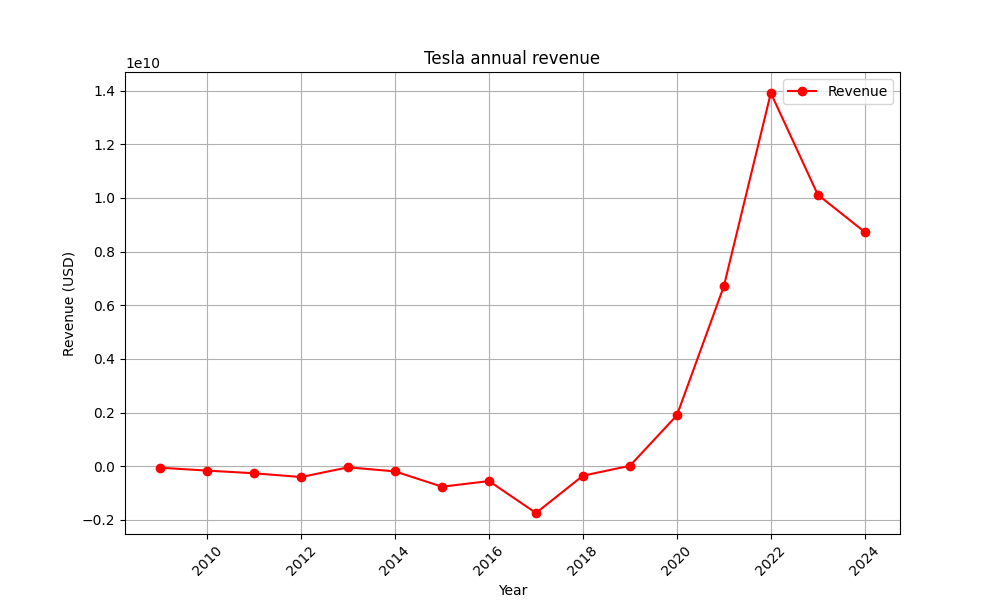
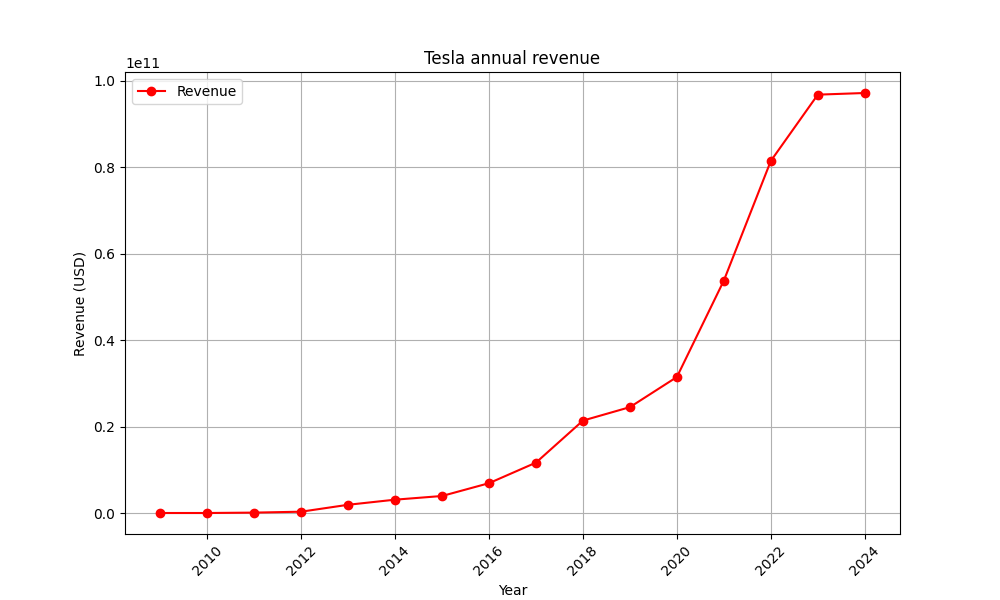
Switched to index page rather than earnings page.

diff --git a/data/earnings.html b/data/earnings.html
@@ -2,7 +2,7 @@
 <!DOCTYPE html>
 <html lang="en-US">
 <head>
-<title>Tesla (TSLA) - Earnings</title>
+<title>Tesla (TSLA) - Revenue</title>
 <meta charset="utf-8"/>
 <link rel="shortcut icon" href="https://companiesmarketcap.com/favicon.ico" type="image/x-icon">
 <link rel="apple-touch-icon" sizes="57x57" href="/img/icons/apple-icon-57x57.png">
@@ -19,33 +19,33 @@
 <link rel="icon" type="image/png" sizes="96x96" href="/img/icons/favicon-96x96.png">
 <link rel="icon" type="image/png" sizes="16x16" href="/img/icons/favicon-16x16.png">
 <link rel="manifest" href="/img/icons/manifest.json">
-<link rel="alternate" hreflang="de" href="https://companiesmarketcap.com/de/tesla/gewinn/" />
-<link rel="alternate" hreflang="fr" href="https://companiesmarketcap.com/fr/tesla/benefices/" />
-<link rel="alternate" hreflang="en-US" href="https://companiesmarketcap.com/tesla/earnings/" />
-<link rel="alternate" hreflang="en-IE" href="https://companiesmarketcap.com/eur/tesla/earnings/" />
-<link rel="alternate" hreflang="en-IN" href="https://companiesmarketcap.com/inr/tesla/earnings/" />
-<link rel="alternate" hreflang="en-GB" href="https://companiesmarketcap.com/gbp/tesla/earnings/" />
-<link rel="alternate" hreflang="en-CA" href="https://companiesmarketcap.com/cad/tesla/earnings/" />
-<link rel="alternate" hreflang="en-AU" href="https://companiesmarketcap.com/aud/tesla/earnings/" />
-<link rel="alternate" hreflang="en-NZ" href="https://companiesmarketcap.com/nzd/tesla/earnings/" />
-<link rel="alternate" hreflang="en-HK" href="https://companiesmarketcap.com/hkd/tesla/earnings/" />
-<link rel="alternate" hreflang="en-SG" href="https://companiesmarketcap.com/sgd/tesla/earnings/" />
+<link rel="alternate" hreflang="de" href="https://companiesmarketcap.com/de/tesla/umsatz/" />
+<link rel="alternate" hreflang="fr" href="https://companiesmarketcap.com/fr/tesla/revenu/" />
+<link rel="alternate" hreflang="en-US" href="https://companiesmarketcap.com/tesla/revenue/" />
+<link rel="alternate" hreflang="en-IE" href="https://companiesmarketcap.com/eur/tesla/revenue/" />
+<link rel="alternate" hreflang="en-IN" href="https://companiesmarketcap.com/inr/tesla/revenue/" />
+<link rel="alternate" hreflang="en-GB" href="https://companiesmarketcap.com/gbp/tesla/revenue/" />
+<link rel="alternate" hreflang="en-CA" href="https://companiesmarketcap.com/cad/tesla/revenue/" />
+<link rel="alternate" hreflang="en-AU" href="https://companiesmarketcap.com/aud/tesla/revenue/" />
+<link rel="alternate" hreflang="en-NZ" href="https://companiesmarketcap.com/nzd/tesla/revenue/" />
+<link rel="alternate" hreflang="en-HK" href="https://companiesmarketcap.com/hkd/tesla/revenue/" />
+<link rel="alternate" hreflang="en-SG" href="https://companiesmarketcap.com/sgd/tesla/revenue/" />
+<link rel="canonical" href="https://companiesmarketcap.com/tesla/revenue/" />
 <link rel="stylesheet" href="https://cdnjs.cloudflare.com/ajax/libs/font-awesome/6.7.2/css/all.min.css" integrity="sha512-Evv84Mr4kqVGRNSgIGL/F/aIDqQb7xQ2vcrdIwxfjThSH8CSR7PBEakCr51Ck+w+/U6swU2Im1vVX0SVk9ABhg==" crossorigin="anonymous" referrerpolicy="no-referrer" />
-<link rel="canonical" href="https://companiesmarketcap.com/tesla/earnings/" />
-<meta property="og:url" content="https://companiesmarketcap.com/tesla/earnings/" />
+<meta property="og:url" content="https://companiesmarketcap.com/tesla/revenue/" />
 <meta name="robots" content="INDEX,FOLLOW" />
 <meta name="msapplication-TileColor" content="#ffffff">
 <meta name="msapplication-TileImage" content="/img/icons/ms-icon-144x144.png">
 <meta name="theme-color" content="#ffffff">
 <meta name="viewport" content="width=device-width, initial-scale=1.0">
 <meta http-equiv="content-language" content="en-US">
-<meta property="og:title" content="Tesla (TSLA) - Earnings">
+<meta property="og:title" content="Tesla (TSLA) - Revenue">
 <meta property="og:type" content="website" />
-<meta property="og:description" content="Current and historical earnings charts for Tesla. As of January 2025 Tesla's TTM earnings are $97.15 Billion USD">
+<meta property="og:description" content="Current and historical revenue charts for Tesla. As of January 2025 Tesla's TTM revenue is of $97.15 Billion USD">
 <meta property="og:image" content="https://companiesmarketcap.com/logo.png">
-<meta name="description" content="Current and historical earnings charts for Tesla. As of January 2025 Tesla's TTM earnings are $97.15 Billion USD">
-<link rel="stylesheet" type="text/css" href="./e-bt-replacement.css">
-<link rel="stylesheet" type="text/css" href="./e-style.css">
+<meta name="description" content="Current and historical revenue charts for Tesla. As of January 2025 Tesla's TTM revenue is of $97.15 Billion USD">
+<link rel="stylesheet" type="text/css" href="./r-bt-replacement.css">
+<link rel="stylesheet" type="text/css" href="./r-style.css">
 <script>
 current_locale = "usd";
 current_locale_path = "";
@@ -60,11 +60,10 @@ current_marketcap_path = "marketcap";
     <div class="site-header">
         <span style="display: inline-flex; margin-top: 2px;">
                 <span class="max-width-720px-hidden">
-                        Companies: <span class="font-weight-bold">10,442</span> &nbsp;&nbsp;&nbsp;
-                        total market cap: <span class="font-weight-bold">$110.780 T</span>
+                        Companies: <span class="font-weight-bold">10,443</span> &nbsp;&nbsp;&nbsp;
+                        total market cap: <span class="font-weight-bold">$110.913 T</span>
                 </span>
         </span>
-      
     </div>
 </div>
 <nav class="navbar nav-bar-companiesmarketcap navbar-expand-lg navbar-light">
@@ -81,22 +80,21 @@ current_marketcap_path = "marketcap";
 
   <div class="collapse navbar-collapse" id="navbarSupportedContent">
 
-    <a href="/" title="CompaniesMarketCap.com - companies ranked by market capitalization" class="responsive-hidden">
+    <a style="pointer-events: none" href="/" title="CompaniesMarketCap.com - companies ranked by market capitalization" class="responsive-hidden">
 	<div class="companiesmarketcap-logo"></div>
     </a>
     <ul class="navbar-nav">
       <li class="nav-item">
-        <a class="nav-link nav-link-companiesmarketcap" style="pointer-events: none;" href="/">Global ranking</a>
+        <a style="pointer-events: none" class="nav-link nav-link-companiesmarketcap" href="/">Global ranking</a>
       </li>
       <li class="nav-item dropdown megamenu-li">
-       <a class="nav-link nav-link-companiesmarketcap dropdown-toggle" style="pointer-events: none;" href="#" id="dropdown-countries" data-toggle="dropdown" aria-haspopup="true" aria-expanded="false">Ranking by countries</a>
-      
+       <a style="pointer-events: none" style="pointer-events: none" class="nav-link nav-link-companiesmarketcap dropdown-toggle" href="#" id="dropdown-countries" style="pointer-events: none" data-toggle="dropdown" aria-haspopup="true" aria-expanded="false">Ranking by countries</a>
+       </div>
       </li>
-      
 
       <li class="nav-item dropdown megamenu-li max-width-650px-shown">
-        <a class="nav-link nav-link-companiesmarketcap" href="/watchlist/"><img class="fav-icon dark-shown" alt="favorite icon" src="/img/fav.svg?v=3"><img class="fav-icon dark-hidden" alt="favorite icon" src="/img/fav4.svg?v=3"> Watchlist</a>
-        <a class="nav-link nav-link-companiesmarketcap" href="/account/"><img class="account-icon dark-shown" alt="favorite icon" src="/img/account.svg?v=3"><img class="account-icon dark-hidden" alt="favorite icon" src="/img/account4.svg?v=3"> Account</a>
+        <a class="nav-link nav-link-companiesmarketcap"  style="pointer-events: none;" href="/watchlist/"><img class="fav-icon dark-shown" alt="favorite icon" src="/img/fav.svg?v=3"><img class="fav-icon dark-hidden" alt="favorite icon" src="/img/fav4.svg?v=3"> Watchlist</a>
+        <a class="nav-link nav-link-companiesmarketcap" style="pointer-events: none;" href="/account/"><img class="account-icon dark-shown" alt="favorite icon" src="/img/account.svg?v=3"><img class="account-icon dark-hidden" alt="favorite icon" src="/img/account4.svg?v=3"> Account</a>
       </span>
 
     </ul>    </div>
@@ -106,8 +104,7 @@ current_marketcap_path = "marketcap";
 <div style="background-color: #e98383; padding: 20px; border: 1px solid #ccc; font-family: Arial, sans-serif; font-size: 14px; color: #333;">
   <strong>Descargo de Responsabilidad</strong><br>
   Esta página ha sido copiada de <a href="https://companiesmarketcap.com/tesla/revenue" target="_blank" style="color: #0066cc; text-decoration: none;">"Companies Market Cap"</a> con fines educativos. Todos los derechos de autor y otros derechos relacionados con el contenido original pertenecen a sus respectivos autores. Esta copia se ha realizado únicamente para fines de aprendizaje. Si eres el propietario del contenido y deseas que se retire, por favor contáctanos.
-</div>
-
+</div> 
 
 <div align="center">
 <div style="min-height:90px;"><div data-fuse="23022329499"></div> <div class="recoverub-container hidden"></div> </div></div>
@@ -116,7 +113,7 @@ current_marketcap_path = "marketcap";
     <div class="row">
         <div class="col-lg-2">
 	    <div class="company-logo-container">
-		<img loading="lazy" class="company-profile-logo" title="Tesla Logo" alt="Tesla Logo" src="https://pngimg.com/uploads/tesla_logo/tesla_logo_PNG14.png" data-img-dark-path="/img/company-logos/256/TSLA_BIG.D.webp">            </div>
+		<img loading="lazy" class="company-profile-logo" title="Tesla Logo" alt="Tesla Logo" src="https://pngimg.com/uploads/tesla_logo/tesla_logo_PNG14.png" data-img-path="./assets/img/pngegg.png" data-img-dark-path="./assets/img/teslalogo.png">            </div>
             <div class="company-title-container">
             	<div class="company-code">TSLA</div>
 	    </div>
@@ -124,17 +121,17 @@ current_marketcap_path = "marketcap";
         <div class="col-lg-6">
 	    <div class="row">
 		    <div class="info-box"><div class="line1">#8</div><div class="line2">Rank</div></div>
-		    <div class="info-box"><div class="line1">$1.255 T</div><div class="line2">Marketcap</div></div>
+		    <div class="info-box"><div class="line1">$1.294 T</div><div class="line2">Marketcap</div></div>
 		    <div class="info-box"><div class="line1"><a href="/usa/largest-companies-in-the-usa-by-market-cap/"><span class="responsive-hidden"> United States</a></span></div><div class="line2">Country</div></div>
 	    </div>
 	    <div class="row">
-		    <div class="info-box"><div class="line1">$391.20</div><div class="line2">Share price</div></div>
-		    <div class="info-box"><div class="line1"><span class="percentage-red">-0.95%</span></div><div class="line2">Change (1 day)</div></div>
-		    <div class="info-box"><div class="line1"><span class="percentage-green">66.49%</span></div><div class="line2">Change (1 year)</div></div>
+		    <div class="info-box"><div class="line1">$403.31</div><div class="line2">Share price</div></div>
+		    <div class="info-box"><div class="line1"><span class="percentage-green">2.17%</span></div><div class="line2">Change (1 day)</div></div>
+		    <div class="info-box"><div class="line1"><span class="percentage-green">83.40%</span></div><div class="line2">Change (1 year)</div></div>
 	    </div>
 <div class="info-box categories-box">
 <div class="line1">
-<a style="pointer-events: none;" href="/automakers/largest-automakers-by-market-cap/" class="badge badge-light category-badge">🚗 Automakers</a><a style="pointer-events: none;"  href="/tech/largest-tech-companies-by-market-cap/" class="badge badge-light category-badge">👩💻 Tech</a><a style="pointer-events: none;"  href="/electric-vehicles/largest-ev-companies-by-market-cap/" class="badge badge-light category-badge">🔋 Electric Vehicles</a><a style="pointer-events: none;"  href="/bitcoin/largest-companies-by-market-cap/" class="badge badge-light category-badge"> ₿ Bitcoin</a><a style="pointer-events: none;"  href="/manufacturing/largest-manufacturing-companies-by-market-cap/" class="badge badge-light category-badge"> 🏭 Manufacturing</a><a style="pointer-events: none;"  href="/ev-charging/largest-ev-charging-companies-by-market-cap/" class="badge badge-light category-badge">🔌 EV charging</a><a style="pointer-events: none;"  href="/autonomous-driving/largest-autonomous-driving-companies-by-market-cap/" class="badge badge-light category-badge">🤖 Autonomous driving</a><a style="pointer-events: none;"  href="/artificial-intelligence/largest-ai-companies-by-marketcap/" class="badge badge-light category-badge">🦾 AI</a></div>
+<a style="pointer-events: none" href="/automakers/largest-automakers-by-market-cap/" class="badge badge-light category-badge">🚗 Automakers</a><a style="pointer-events: none" href="/tech/largest-tech-companies-by-market-cap/" class="badge badge-light category-badge">👩💻 Tech</a><a style="pointer-events: none" href="/electric-vehicles/largest-ev-companies-by-market-cap/" class="badge badge-light category-badge">🔋 Electric Vehicles</a><a style="pointer-events: none" href="/bitcoin/largest-companies-by-market-cap/" class="badge badge-light category-badge"> ₿ Bitcoin</a><a style="pointer-events: none" href="/manufacturing/largest-manufacturing-companies-by-market-cap/" class="badge badge-light category-badge"> 🏭 Manufacturing</a><a style="pointer-events: none" href="/ev-charging/largest-ev-charging-companies-by-market-cap/" class="badge badge-light category-badge">🔌 EV charging</a><a style="pointer-events: none" href="/autonomous-driving/largest-autonomous-driving-companies-by-market-cap/" class="badge badge-light category-badge">🤖 Autonomous driving</a><a style="pointer-events: none" href="/artificial-intelligence/largest-ai-companies-by-marketcap/" class="badge badge-light category-badge">🦾 AI</a></div>
 <div class="line2">Categories</div>
 </div>
 
@@ -144,60 +141,61 @@ current_marketcap_path = "marketcap";
 		<p>Tesla, Inc. is an American company that manufactures and sells electric cars, as well as power storage and photovoltaic systems. The company's goal is to “accelerate the transition to sustainable energy”. The company name is based on the physicist and inventor Nikola Tesla.</p>	</div>
 	    </div>
 
+
+
+
     <ul class="profile-nav nav nav-tabs mt-4">
-  <li class="nav-item"  style="pointer-events: none">          <a class="nav-link" style="pointer-events: none" href="/tesla/marketcap/">Market cap</a>  </li>  <li class="nav-item" >          <a class="nav-link" href="./index.html">Revenue</a>  </li>  <li class="nav-item">          <a class="nav-link active" href="./earnings.html">Earnings</a>  </li>  <li class="nav-item">          <a class="nav-link tab-medium-hide" style="pointer-events: none" href="/tesla/stock-price-history/">Price history</a>  </li>  <li class="nav-item">          <a class="nav-link tab-medium-hide" style="pointer-events: none" href="/tesla/pe-ratio/">P/E ratio</a>  </li>  <li class="nav-item">          <a class="nav-link tab-medium-hide" style="pointer-events: none" href="/tesla/ps-ratio/">P/S ratio</a>  </li>  <li class="nav-item dropdown position-relative">
-    <a class="nav-link dropdown-toggle" data-toggle="dropdown" style="pointer-events: none" href="#" role="button" aria-haspopup="true" aria-expanded="false">More</a>
+  <li class="nav-item">          <a class="nav-link" style="pointer-events: none" href="/tesla/marketcap/">Market cap</a>  </li>  <li class="nav-item">          <a class="nav-link active"  href="/tesla/revenue/">Revenue</a>  </li>  <li class="nav-item">          <a class="nav-link" href="earnings.html">Earnings</a>  </li>  <li class="nav-item">          <a class="nav-link tab-medium-hide" style="pointer-events: none" href="/tesla/stock-price-history/">Price history</a>  </li>  <li class="nav-item">          <a class="nav-link tab-medium-hide" style="pointer-events: none" href="/tesla/pe-ratio/">P/E ratio</a>  </li>  <li class="nav-item">          <a class="nav-link tab-medium-hide" style="pointer-events: none" href="/tesla/ps-ratio/">P/S ratio</a>  </li>  <li class="nav-item dropdown position-relative">
+    <a class="nav-link dropdown-toggle"  style="pointer-events: none" data-toggle="dropdown" href="#" role="button" aria-haspopup="true" aria-expanded="false">More</a>
     <div class="dropdown-menu profile-dropdown">
         <a class="dropdown-item tab-medium-show" href="/tesla/stock-price-history/">Price history</a>
-<a class="dropdown-item" href="/tesla/operating-margin/">Operating margin</a>
-<a class="dropdown-item" href="/tesla/eps/">EPS</a>
-<a class="dropdown-item" href="/tesla/stock-splits/">Stock Splits</a>
-<a class="dropdown-item" href="/tesla/shares-outstanding/">Shares outstanding</a>
-<a class="dropdown-item" href="/tesla/failure-to-deliver/">Fails to deliver</a>
-<a class="dropdown-item" href="/tesla/cost-to-borrow/">Cost to borrow</a>
-<a class="dropdown-item" href="/tesla/total-assets/">Total assets</a>
-<a class="dropdown-item" href="/tesla/total-liabilities/">Total liabilities</a>
-<a class="dropdown-item" href="/tesla/total-debt/">Total debt</a>
-<a class="dropdown-item" href="/tesla/cash-on-hand/">Cash on Hand</a>
-<a class="dropdown-item" href="/tesla/net-assets/">Net Assets</a>    </div>
+<a class="dropdown-item tab-medium-show" style="pointer-events: none" href="/tesla/pe-ratio/">P/E ratio</a>
+<a class="dropdown-item tab-medium-show" style="pointer-events: none" href="/tesla/ps-ratio/">P/S ratio</a>
+<a class="dropdown-item" style="pointer-events: none" href="/tesla/pb-ratio/">P/B ratio</a>
+<a class="dropdown-item" style="pointer-events: none" href="/tesla/operating-margin/">Operating margin</a>
+<a class="dropdown-item" style="pointer-events: none" href="/tesla/eps/">EPS</a>
+<a class="dropdown-item" style="pointer-events: none" href="/tesla/stock-splits/">Stock Splits</a>
+<a class="dropdown-item" style="pointer-events: none" href="/tesla/shares-outstanding/">Shares outstanding</a>
+<a class="dropdown-item" style="pointer-events: none" href="/tesla/failure-to-deliver/">Fails to deliver</a>
+<a class="dropdown-item" style="pointer-events: none" href="/tesla/cost-to-borrow/">Cost to borrow</a>
+<a class="dropdown-item" style="pointer-events: none" href="/tesla/total-assets/">Total assets</a>
+<a class="dropdown-item" style="pointer-events: none" href="/tesla/total-liabilities/">Total liabilities</a>
+<a class="dropdown-item" style="pointer-events: none" href="/tesla/total-debt/">Total debt</a>
+<a class="dropdown-item" style="pointer-events: none" href="/tesla/cash-on-hand/">Cash on Hand</a>
+<a class="dropdown-item" style="pointer-events: none" href="/tesla/net-assets/">Net Assets</a>    </div>
   </li>
 </ul>
 
     <div class="profile-container pt-3">
-	<h1>Earnings for Tesla (TSLA)</h1>
-			<h2><strong>Earnings in 2024 (TTM):  <span class="background-ya">$8.73 Billion USD</span></strong></h2>
-		<p class="mt-2">
-According to <strong>Tesla</strong>'s latest financial reports the company's current earnings  are <strong>$97.15 Billion USD</strong>. In 2023 the company made an earning of <strong>$10.12 Billion USD</strong> a decrease over its 2022 earnings that were of <strong>$13.91 Billion USD</strong>.  The earnings displayed on this page are the earnings before interest and taxes or simply <strong>EBIT</strong>. 	</p>
+	<h1>Revenue for Tesla (TSLA)</h1>
+                <h2><strong>Revenue in 2024 (TTM): <span class="background-ya">$97.15 Billion USD</span></strong></h2>
+        	<p class="mt-2">
+According to <strong>Tesla</strong>'s latest financial reports the company's current revenue (TTM <img class="in-text-tooltip ttm-dates-info-icon info-icon tooltip-title responsive-hidden" tooltip-title="2 Oct 2023 - 30 Sep 2024" src="/img/info-icon-grey.svg">) is <strong>$97.15 Billion USD</strong>. In 2023 the company made a revenue of <strong>$96.77 Billion USD</strong> an increase over the revenue in the year 2022 that were of <strong>$81.46 Billion USD</strong>. The revenue is the total amount of income that a company generates by the sale of goods or services. Unlike with the <a href="earnings.html">earnings</a> no expenses are subtracted. 	</p>
 
-    <div>
-        <h2 class="big">Earnings history for Tesla from 2009 to 2024</h2>
-        <!-- <svg id="marketcapchart" class="companiesmarketcap-chart" height="550" width="100%" xmlns:svg="http://www.w3.org/2000/svg" xmlns="http://www.w3.org/2000/svg"></svg> -->
-    </div>
-<div style="margin-bottom: 10px;margin-top: 10px;"><!-- GAM 71161633/JWSRV_companiesmarketcap/comp_incontent_1 -->
-</div>
-    <h3>Annual earnings</h3>
+	<div align="center" style="margin-bottom: 10px;margin-top: 10px;"><!-- GAM 71161633/JWSRV_companiesmarketcap/comp_incontent_1 -->
+</div>	
+    <h3>Annual revenue</h3>
     <div style="overflow-y: scroll;">
 	    <table class="table" style="width:100%">
 	        <thead>
 	            <tr>
 	                <th>Year</th>
-					<th>Earnings</th>
+					<th>Revenue</th>
 					<th>Change</th>
 				</tr>
 			</thead>
-			<tbody>
-<tr><td><span class="year">2024</span></td><td>$8.73 B</td><td class="percentage-red">-13.81%</td></tr><tr><td><span class="year">2023</span></td><td>$10.12 B</td><td class="percentage-red">-27.18%</td></tr><tr><td><span class="year">2022</span> </td><td>$13.91 B</td><td class="percentage-green">107.18%</td></tr><tr><td><span class="year">2021</span> </td><td>$6.71 B</td><td class="percentage-green">253%</td></tr><tr><td><span class="year">2020</span></td><td>$1.90 B</td><td class="percentage-green">9410%</td></tr><tr><td><span class="year">2019</span> </td><td>$20 M</td><td class="percentage-red">-105.84%</td></tr><tr><td><span class="year">2018</span></td><td>-$0.35 Billion</td><td class="percentage-red">-80.31%</td></tr><tr><td><span class="year">2017</span> </td><td>-$1.74 Billion</td><td class="percentage-green">217.38%</td></tr><tr><td><span class="year">2016</span> </td><td>-$0.55 Billion</td><td class="percentage-red">-27.65%</td></tr><tr><td><span class="year">2015</span> </td><td>-$0.76 Billion</td><td class="percentage-green">311.86%</td></tr><tr><td><span class="year">2014</span> </td><td>-$0.19 Billion</td><td class="percentage-green">377.62%</td></tr><tr><td><span class="year">2013</span> </td><td>-$38.48 Million</td><td class="percentage-red">-90.28%</td></tr><tr><td><span class="year">2012</span> </td><td>-$0.4 Billion</td><td class="percentage-green">55.91%</td></tr><tr><td><span class="year">2011</span> </td><td>-$0.26 Billion</td><td class="percentage-green">65.76%</td></tr><tr><td><span class="year">2010</span> </td><td>-$0.16 Billion</td><td class="percentage-green">187.99%</td></tr><tr><td><span class="year">2009</span> </td><td>-$53.19 Million</td><td></td></tr>                </tbody>
+		<tbody>
+<tr><td><span class="year">2024</span></td><td>$97.15 B</td><td class="percentage-green">0.39%</td></tr><tr><td><span class="year">2023</span> </td><td>$96.77 B</td><td class="percentage-green">18.8%</td></tr><tr><td><span class="year">2022</span></td><td>$81.46 B</td><td class="percentage-green">51.35%</td></tr><tr><td><span class="year">2021</span></td><td>$53.82 B</td><td class="percentage-green">70.67%</td></tr><tr><td><span class="year">2020</span></td><td>$31.53 B</td><td class="percentage-green">28.31%</td></tr><tr><td><span class="year">2019</span></td><td>$24.57 B</td><td class="percentage-green">14.52%</td></tr><tr><td><span class="year">2018</span></td><td>$21.46 B</td><td class="percentage-green">82.51%</td></tr><tr><td><span class="year">2017</span></td><td>$11.75 B</td><td class="percentage-green">67.98%</td></tr><tr><td><span class="year">2016</span></td><td>$7.00 B</td><td class="percentage-green">73.01%</td></tr><tr><td><span class="year">2015</span></td><td>$4.04 B</td><td class="percentage-green">26.5%</td></tr><tr><td><span class="year">2014</span></td><td>$3.19 B</td><td class="percentage-green">58.85%</td></tr><tr><td><span class="year">2013</span></td><td>$2.01 B</td><td class="percentage-green">387.23%</td></tr><tr><td><span class="year">2012</span></td><td>$0.41 B</td><td class="percentage-green">102.34%</td></tr><tr><td><span class="year">2011</span></td><td>$0.20 B</td><td class="percentage-green">74.95%</td></tr><tr><td><span class="year">2010</span></td><td>$0.11 B</td><td class="percentage-green">4.29%</td></tr><tr><td><span class="year">2009</span> </td><td>$0.11 B</td><td></td></tr>                </tbody>
 	    </table>
         </div>
 
-<div style="margin-bottom: 10px;margin-top: 10px;"><!-- GAM 71161633/JWSRV_companiesmarketcap/comp_incontent_1 -->
-<div data-fuse="23022329508"></div></div><h3>Earnings for similar companies or competitors</h3><div style="overflow-y: scroll;">    <table class="table w-100">        <thead>                <tr>                    <th>Company</th>                        <th>Earnings</th>                        <th>Earnings <span class="responsive-hidden">difference</span><span class="responsive-shown">diff.</span></th>                        <th>Country</th>                    </tr>                </thead>                <tbody><tr><td class="name-td"><a style="pointer-events: none;" href="/apple/earnings/"><div class="float-left pt-1"></div><div class="name-div"><div class="company-name">Apple</div><div class="company-code"><span class="rank d-none"></span>AAPL</div></a></div></td><td>$123.21 B</td><td><span class="percentage-green"> 1,311.41%</span></td><td> <span class="responsive-hidden">USA</span></td></tr><tr><td class="name-td"><a style="pointer-events: none;" href="/rivian/earnings/"><div class="float-left pt-1"></div><div class="name-div"><div class="company-name">Rivian</div><div class="company-code"><span class="rank d-none"></span>RIVN</div></a></div></td><td>-$5.22 Billion</td><td><span class="percentage-red">-159.70%</span></td><td><span class="responsive-hidden">USA</span></td></tr><tr><td class="name-td"><a style="pointer-events: none;" href="/lucid-motors/earnings/"><div class="float-left pt-1"></div><div class="name-div"><div class="company-name">Lucid Motors</div><div class="company-code"><span class="rank d-none"></span>LCID</div></a></div></td><td>-$2.94 Billion</td><td><span class="percentage-red">-133.67%</span></td><td> <span class="responsive-hidden">USA</span></td></tr><tr><td class="name-td"><a style="pointer-events: none;" href="/nio/earnings/"><div class="float-left pt-1"></div><div class="name-div"><div class="company-name">NIO</div><div class="company-code"><span class="rank d-none"></span>NIO</div></a></div></td><td>-$2.86 Billion</td><td><span class="percentage-red">-132.69%</span></td><td> <span class="responsive-hidden">China</span></td></tr>            </tbody>    </table></div>
-
+<div align="center" style="margin-bottom: 10px;margin-top: 10px;"><!-- GAM 71161633/JWSRV_companiesmarketcap/comp_incontent_1 -->
+<div data-fuse="23022329508"></div></div><h3>Revenue for similar companies or competitors</h3><div style="overflow-y: scroll;">    <table class="table w-100">        <thead>                <tr>                    <th>Company</th>                        <th>Revenue</th>                        <th>Revenue <span class="responsive-hidden">difference</span><span class="responsive-shown">diff.</span></th>                        <th>Country</th>                    </tr>                </thead>                <tbody><tr><td class="name-td"><a href="/apple/revenue/" style="pointer-events: none;"><div class="float-left pt-1"></div><div class="name-div"><div class="company-name">Apple</div><div class="company-code"><span class="rank d-none"></span>AAPL</div></a></div></td><td>$391.03 B</td><td><span class="percentage-green"> 302.51%</span></td><td> <span class="responsive-hidden">USA</span></td></tr><tr><td class="name-td"><a href="/rivian/revenue/"><div class="float-left pt-1"> </div><div class="name-div"><div class="company-name">Rivian</div><div class="company-code"><span class="rank d-none"></span>RIVN</div></a></div></td><td>$4.55 B</td><td><span class="percentage-red">-95.32%</span></td><td> <span class="responsive-hidden">USA</span></td></tr><tr><td class="name-td"><a href="/lucid-motors/revenue/"><div class="float-left pt-1"></div><div class="name-div"><div class="company-name">Lucid Motors</div><div class="company-code"><span class="rank d-none"></span>LCID</div></a></div></td><td>$0.73 B</td><td><span class="percentage-red">-99.25%</span></td><td> <span class="responsive-hidden">USA</span></td></tr><tr><td class="name-td"><a href="/nio/revenue/"><div class="float-left pt-1"></div><div class="name-div"><div class="company-name">NIO</div><div class="company-code"><span class="rank d-none"></span>NIO</div></a></div></td><td>$8.85 B</td><td><span class="percentage-red">-90.88%</span></td><td> <span class="responsive-hidden">China</span></td></tr>            </tbody>    </table></div>
     </div>
 
-<script src="/js/chart1.js?v=39"></script>
+<script src="/js/chart1.js?v=37"></script>
 <script type="text/javascript">
-data = {"2024":8730000000,"2023":10129000000,"2022":13910000000,"2021":6714000000,"2020":1902000000,"2019":20000000,"2018":-342214000,"2017":-1737773000,"2016":-547538000,"2015":-756773000,"2014":-183746000,"2013":-38471000,"2012":-395822000,"2011":-253880000,"2010":-153164000,"2009":-53183000};
+data = {"2024":97150000000,"2023":96773000000,"2022":81462000000,"2021":53823000000,"2020":31536000000,"2019":24578000000,"2018":21460855000,"2017":11758751000,"2016":7000132000,"2015":4046025000,"2014":3198356000,"2013":2013496000,"2012":413256000,"2011":204242000,"2010":116744000,"2009":111943000};
 var chart1 = new CmcChart();
 chart1.dateFormat = 'y';
 chart1.currencySymbol = '$';
@@ -207,22 +205,22 @@ chart1.loadChart(document.getElementById('marketcapchart'), data);
 
 </div>
 
-<div style="margin-top: 10px;">
+<div align="center" style="margin-top: 10px;">
 <!-- GAM 71161633/JWSRV_companiesmarketcap/home_incontent_4 -->
-        <div data-fuse="23022329505"></div></div>
+        <div data-fuse="23022329505" ></div></div>
 
 <div class="footer-container">
 	<div class="footer-section">
 		<div class="footer row">
 			<div class="col-sm-6">
-				<h4><a style="pointer-events: none;"  href="/lexicon/market-cap-of-a-company/">What is the market capitalization of a company?</a></h4>
+				<h4><a href="/lexicon/market-cap-of-a-company/">What is the market capitalization of a company?</a></h4>
 				<p>The market capitalization sometimes referred as Marketcap, is the value of a publicly listed company. <br/>
 				In most cases it can be easily calculated by multiplying the share price with the amount of outstanding shares. </p>
 				<h4>DISCLAIMER</h4>
                                 <p>
                                 CompaniesMarketCap is not associated in any way with CoinMarketCap.com<br/>
 				Stock prices are delayed, the delay can range from a few minutes to several hours. <br/>
-				Company logos are from the <a class="text-underline" style="pointer-events: none;"  href="https://companieslogo.com">CompaniesLogo.com logo database</a> and belong to their respective copyright holders. Companies Marketcap displays them for editorial purposes only. </p>
+				Company logos are from the <a class="text-underline" style="pointer-events: none" href="https://companieslogo.com">CompaniesLogo.com logo database</a> and belong to their respective copyright holders. Companies Marketcap displays them for editorial purposes only. </p>
 			</div>
 
 			<div class="col-sm-6">
@@ -230,15 +228,15 @@ chart1.loadChart(document.getElementById('marketcapchart'), data);
                                 For inquiries or if you want to report a problem write to <span class="contact-email">hel<span class="hidden">nospam</span>lo@8market<span class="hidden">(nospam)</span>cap.com</span>                                <br/>
 				<br/>
 				<h4>Links</h4>
-				<p>- <a class="text-underline" style="pointer-events: none;" href="/privacy/">Privacy policy</a></p>
-				<p>- <a class="text-underline" style="pointer-events: none;" href="/terms-of-service/">Terms and conditions</a></p>
+				<p>- <a class="text-underline" style="pointer-events: none" href="/privacy/">Privacy policy</a></p>
+				<p>- <a class="text-underline" style="pointer-events: none" href="/terms-of-service/">Terms and conditions</a></p>
 
                                 <p class="social-media-icons"><a href="https://www.facebook.com/CompaniesMarketCap/" title="Companies Market Cap Facebook page">
 <svg xmlns="http://www.w3.org/2000/svg" width="20" height="20" viewBox="0 0 155 155">
 <path d="M89.584,155.139V84.378h23.742l3.562-27.585H89.584V39.184 c0-7.984,2.208-13.425,13.67-13.425l14.595-0.006V1.08C115.325,0.752,106.661,0,96.577,0C75.52,0,61.104,12.853,61.104,36.452 v20.341H37.29v27.585h23.814v70.761H89.584z"></path>
 </svg></a>
 
-<a style="pointer-events: none;"  href="https://twitter.com/CompaniesMarke1" title="Companies Market Cap Twitter account">
+<a style="pointer-events: none" href="https://twitter.com/CompaniesMarke1" title="Companies Market Cap Twitter account">
 <svg xmlns="http://www.w3.org/2000/svg" width="20" height="20" viewBox="80 75 250 250"><rect fill="none" width="30" height="30"></rect><path d="M153.62,301.59c94.34,0,145.94-78.16,145.94-145.94,0-2.22,0-4.43-.15-6.63A104.36,104.36,0,0,0,325,122.47a102.38,102.38,0,0,1-29.46,8.07,51.47,51.47,0,0,0,22.55-28.37,102.79,102.79,0,0,1-32.57,12.45,51.34,51.34,0,0,0-87.41,46.78A145.62,145.62,0,0,1,92.4,107.81a51.33,51.33,0,0,0,15.88,68.47A50.91,50.91,0,0,1,85,169.86c0,.21,0,.43,0,.65a51.31,51.31,0,0,0,41.15,50.28,51.21,51.21,0,0,1-23.16.88,51.35,51.35,0,0,0,47.92,35.62,102.92,102.92,0,0,1-63.7,22A104.41,104.41,0,0,1,75,278.55a145.21,145.21,0,0,0,78.62,23"></path></svg></a>
 </p>
                                 <p>
@@ -253,6 +251,33 @@ chart1.loadChart(document.getElementById('marketcapchart'), data);
 <div id="popup-container" class="popup-container hidden"></div>
 <script src="/js/account.js?v21"></script><script src="/clever_ads.js"></script>
 <script>
+
+ubRecovered = false;
+
+
+(function detectUB(callback) {
+  var flaggedURL = 'https://static.getclicky.com/js';
+
+        var request = new Request(flaggedURL, {
+        method: 'GET',
+        mode: 'no-cors',
+        });
+        fetch(request)
+        .then(function(response) {
+        if (response.status === 200 ) {
+                callback(false);
+        }
+        })
+        .catch(function(error) {
+                callback(true);
+        });
+        })(function(usingAdblock) {
+                if(usingAdblock) {
+                        ub0802dwds = 2;
+                        recoveUB();
+                        console.log('using adblock');
+                }
+        })
 
 	function ae6dd7anadbac(siteID) {
 		var uuid = '';
@@ -297,4 +322,4 @@ chart1.loadChart(document.getElementById('marketcapchart'), data);
 
 	setTimeout("ae6dd7anadbac('CMC')", 625);
 </script>
-<!-- generation time: 0.0023341178894043 --></body>
+<!-- generation time: 0.002126932144165 --></body>

diff --git a/src/app.py b/src/app.py
@@ -7,8 +7,8 @@ import pandas as pd
 import helper_functions as helper_funcs
 
 # Target URL
-URL='https://companies-market-cap-copy.vercel.app/earnings.html'
-
+#URL='https://companies-market-cap-copy.vercel.app/earnings.html'
+URL='https://companies-market-cap-copy.vercel.app/index.html'
 
 if __name__ == "__main__":
 
